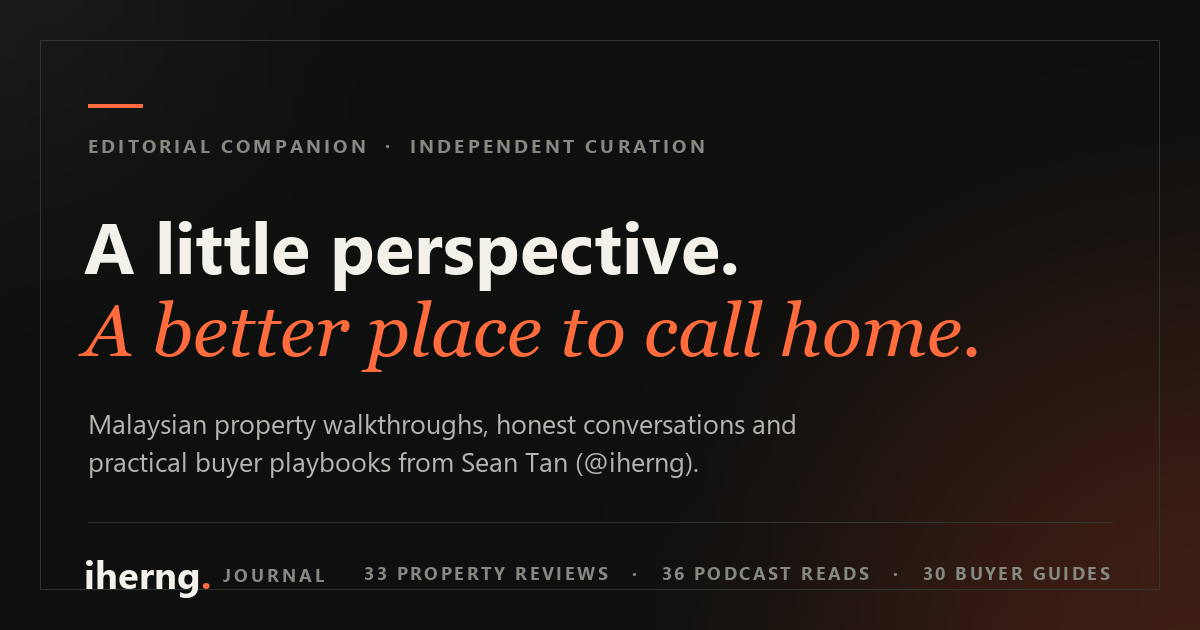
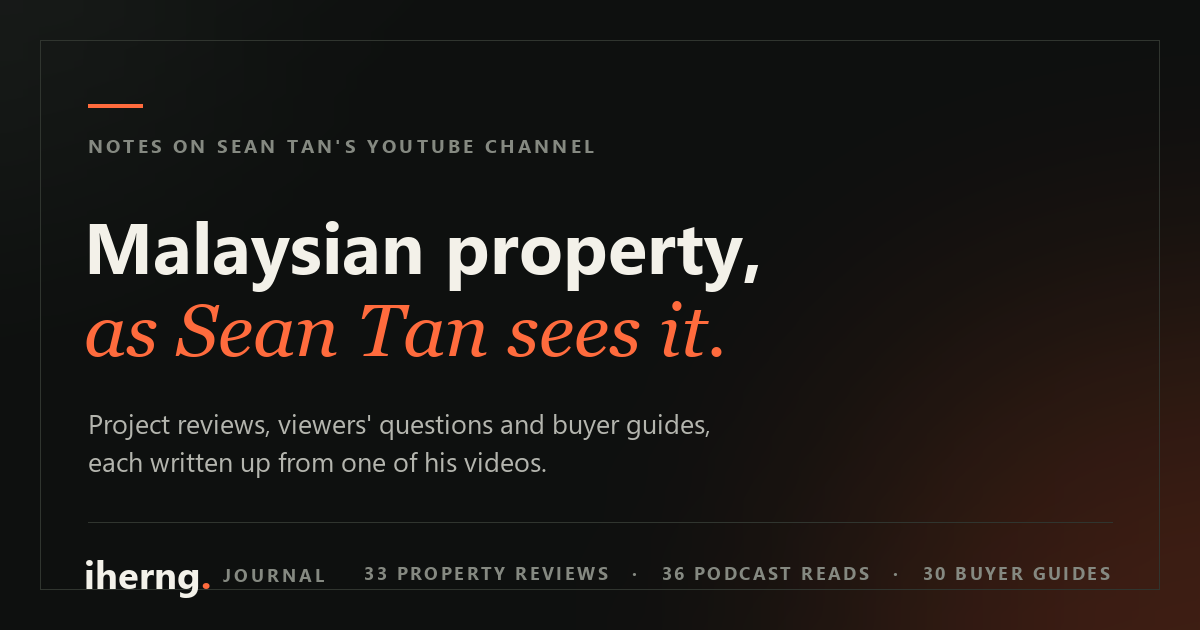
Rewrite the homepage's slogan and stock copy, and preview six per series
Keep the homepage's look, and replace the words that read as generated:
- Headline: "Malaysian property, as Sean Tan sees it." in place of "A little
  perspective. A better place to call home.", with a lead that says what
  Sean does and how each video is written up. The sparkle icon becomes a
  notebook.
- Series cards count reviews, episodes and guides rather than "stories", and
  say what each series holds.
- Podcast block: "Viewers ask. Sean answers." in place of "Good questions.
  Better perspectives.", with a plain description.
- Creator panel: a factual description in place of "most respected" and
  "unvarnished honesty", and the number of videos written up here in place
  of "100% Independent Editorial".
- Edition banner names the site and links to the newest write-up; the footer
  tagline drops "actionable insights".
- The social card carries the new headline.

The homepage now shows the newest six reviews and six guides, with links to
the full series, so it is about 5,400px tall instead of 15,100px.

diff --git a/app/page.tsx b/app/page.tsx
@@ -1,7 +1,7 @@
 import Link from 'next/link';
 import {
   ArrowRight,
-  Sparkles,
+  NotebookPen,
   Building2,
   Headphones,
   BookOpen,
@@ -12,10 +12,11 @@ import {
   PodcastSection,
   BuyerGuidesSection,
 } from '@/components/journal';
-import { seriesCount, type SeriesKey } from '@/lib/articles';
+import { articles, seriesCount, type SeriesKey } from '@/lib/articles';
 import { AIherngName } from '@/components/aiherng-name';
 
-const storyCount = (seriesKey: SeriesKey) => `${String(seriesCount(seriesKey)).padStart(2, '0')} STORIES`;
+const countLabel = (seriesKey: SeriesKey, noun: string) =>
+  `${String(seriesCount(seriesKey)).padStart(2, '0')} ${noun}`;
 
 export default function Home() {
   return (
@@ -39,16 +40,17 @@ export default function Home() {
 
           <div className="hero-copy">
             <div className="edition-badge">
-              <Sparkles size={13} className="text-accent" />
-              <span>EDITORIAL COMPANION · INDEPENDENT CURATION</span>
+              <NotebookPen size={13} className="text-accent" />
+              <span>Notes on Sean Tan&apos;s YouTube channel</span>
             </div>
             <h1 className="intro-title">
-              A little perspective.<br />
-              <span className="serif-accent">A better place to call home.</span>
+              Malaysian property,<br />
+              <span className="serif-accent">as Sean Tan sees it.</span>
             </h1>
             <p className="intro-lead">
-              Malaysian property walkthroughs, honest conversations, and practical buyer
-              playbooks from Sean Tan (@iherng), distilled into focused, source-linked articles.
+              Sean visits projects around Malaysia, answers viewers who write in about their
+              money and homes, and explains loans and costs. Each video is written up here as a
+              few minutes&apos; read, with his own figures and a link back to the episode.
             </p>
 
             <div className="hero-actions">
@@ -85,12 +87,12 @@ export default function Home() {
               <div className="icon-badge">
                 <Building2 size={16} />
               </div>
-              <span className="series-episodes">{storyCount('property-reviews')}</span>
+              <span className="series-episodes">{countLabel('property-reviews', 'REVIEWS')}</span>
             </div>
             <h3>Property Reviews</h3>
-            <p>Room-by-room architectural inspections &amp; neighbourhood trade-offs.</p>
+            <p>Sean walks through a project and says what he likes and what he would question.</p>
             <div className="quick-footer">
-              <span>View collection</span>
+              <span>See all reviews</span>
               <ArrowRight size={14} />
             </div>
           </Link>
@@ -100,12 +102,12 @@ export default function Home() {
               <div className="icon-badge">
                 <Headphones size={16} />
               </div>
-              <span className="series-episodes">{storyCount('iherng-podcast')}</span>
+              <span className="series-episodes">{countLabel('iherng-podcast', 'EPISODES')}</span>
             </div>
             <h3>iherng Podcast</h3>
-            <p>Asking Sean: Candid discussions on mortgages, family, and homeownership.</p>
+            <p>Viewers share their income, savings and dilemma. Sean tells them what he would do.</p>
             <div className="quick-footer">
-              <span>View collection</span>
+              <span>See all episodes</span>
               <ArrowRight size={14} />
             </div>
           </Link>
@@ -115,12 +117,12 @@ export default function Home() {
               <div className="icon-badge">
                 <BookOpen size={16} />
               </div>
-              <span className="series-episodes">{storyCount('buyer-guides')}</span>
+              <span className="series-episodes">{countLabel('buyer-guides', 'GUIDES')}</span>
             </div>
             <h3>Buyer Guides</h3>
-            <p>Practical playbooks for research, financing, risk checks, renovation and ownership decisions.</p>
+            <p>Sean&apos;s answers to what every buyer asks: loans, hidden costs, subsale or new launch.</p>
             <div className="quick-footer">
-              <span>View collection</span>
+              <span>See all guides</span>
               <ArrowRight size={14} />
             </div>
           </Link>
@@ -143,9 +145,10 @@ export default function Home() {
             <span className="eyebrow">MEET THE CREATOR</span>
             <h2>Sean Tan (@iherng)</h2>
             <p>
-              Sean Tan has become one of Malaysia&apos;s most respected real estate commentators,
-              known for touring properties without sales hype. He breaks down floor plans, construction
-              quality, and financial realities with unvarnished honesty.
+              Sean runs iherng, a YouTube channel about buying property in Malaysia. He tours new
+              launches and finished projects, points out what works and what doesn&apos;t, and on
+              Asking Sean works through viewers&apos; own numbers. The iherng Journal is an
+              independent site, not made by Sean: it writes up his videos and links back to each one.
             </p>
             <div className="creator-badges">
               <div className="stat-box">
@@ -157,8 +160,8 @@ export default function Home() {
                 <span>YouTube Subscribers</span>
               </div>
               <div className="stat-box">
-                <strong>100%</strong>
-                <span>Independent Editorial</span>
+                <strong>{articles.length}</strong>
+                <span>Videos written up here</span>
               </div>
             </div>
           </div>

diff --git a/components/journal.tsx b/components/journal.tsx
@@ -153,6 +153,9 @@ export function ArticleCard({
   );
 }
 
+// The homepage previews the newest few of each series; the series pages list them all.
+const HOME_PREVIEW = 6;
+
 export function PropertySection() {
   const propertyArticles = articles.filter(
     (a) => a.series === 'property-reviews'
@@ -170,17 +173,17 @@ export function PropertySection() {
             Property Reviews <span className="count-pill">{String(propertyArticles.length).padStart(2, '0')}</span>
           </h2>
           <p className="section-subtitle">
-            Walkthroughs of Malaysian homes with Sean. Step inside the spaces and look beyond the sales brochure.
+            The newest projects Sean has walked through, from show units to finished buildings.
           </p>
         </div>
         <Link className="editorial-btn" href="/property-reviews">
-          <span>Explore all reviews</span>
+          <span>All {propertyArticles.length} reviews</span>
           <ArrowRight size={16} />
         </Link>
       </div>
 
       <div className="article-grid">
-        {propertyArticles.map((a) => (
+        {propertyArticles.slice(0, HOME_PREVIEW).map((a) => (
           <ArticleCard key={a.slug} article={a} />
         ))}
       </div>
@@ -189,9 +192,8 @@ export function PropertySection() {
 }
 
 export function PodcastSection() {
-  // The homepage previews the latest three; the series page lists them all.
-  const podcastArticles = articles
-    .filter((a) => a.series === 'iherng-podcast')
+  const allEpisodes = articles.filter((a) => a.series === 'iherng-podcast');
+  const podcastArticles = [...allEpisodes]
     .sort((a, b) => b.date.localeCompare(a.date))
     .slice(0, 3);
 
@@ -203,14 +205,14 @@ export function PodcastSection() {
           <span>SERIES 02 / IN CONVERSATION</span>
         </div>
         <h2>
-          Good questions.<br />
-          <em>Better perspectives.</em>
+          Viewers ask.<br />
+          <em>Sean answers.</em>
         </h2>
         <p>
-          Deep dives from the Asking Sean podcast on lifestyle choices, property expectations, and navigating the Malaysian housing market.
+          People write in with their salary, savings and the property they have in mind. Sean tells them whether to buy, wait or sell, and why.
         </p>
         <Link href="/iherng-podcast" className="podcast-cta-btn">
-          <span>Browse all podcast reads</span>
+          <span>All {allEpisodes.length} episodes</span>
           <ArrowUpRight size={18} />
         </Link>
       </div>
@@ -265,6 +267,8 @@ export function PodcastSection() {
 
 export function BuyerGuidesSection() {
   const guideArticles = articles.filter((a) => a.series === 'buyer-guides');
+  // Guides are registered in guide order, so the newest are at the end.
+  const newestGuides = guideArticles.slice(-HOME_PREVIEW).reverse();
 
   return (
     <section className="article-section" id="buyer-guides-preview">
@@ -275,20 +279,20 @@ export function BuyerGuidesSection() {
             <span className="eyebrow">SERIES 03 / THE PLAYBOOK</span>
           </div>
           <h2 className="section-title">
-            Buyer Guides &amp; Playbooks <span className="count-pill">{String(guideArticles.length).padStart(2, '0')}</span>
+            Buyer Guides <span className="count-pill">{String(guideArticles.length).padStart(2, '0')}</span>
           </h2>
           <p className="section-subtitle">
-            Practical frameworks for research, financing, risk checks, renovation and ownership decisions.
+            Sean&apos;s answers to the questions most buyers run into, with the steps to take.
           </p>
         </div>
         <Link className="editorial-btn" href="/buyer-guides">
-          <span>Explore all guides</span>
+          <span>All {guideArticles.length} guides</span>
           <ArrowRight size={16} />
         </Link>
       </div>
 
       <div className="article-grid">
-        {guideArticles.map((a) => (
+        {newestGuides.map((a) => (
           <ArticleCard key={a.slug} article={a} />
         ))}
       </div>

diff --git a/app/layout.tsx b/app/layout.tsx
@@ -4,7 +4,7 @@ import { ArrowUpRight, Building2, Mic, BookOpen, Heart } from 'lucide-react';
 import './globals.css';
 import { JournalNav } from '@/components/journal-nav';
 import { AIherngName } from '@/components/aiherng-name';
-import { seriesCount } from '@/lib/articles';
+import { articles, seriesCount } from '@/lib/articles';
 import { ReadingProgress } from '@/components/reading-progress';
 import { JsonLd } from '@/components/json-ld';
 import { DEFAULT_OG_IMAGE, SITE_URL, websiteJsonLd } from '@/lib/seo';
@@ -63,6 +63,14 @@ export const metadata: Metadata = {
   },
 };
 
+// The banner points to the newest write-up, whichever series it is in.
+const latest = [...articles].sort((a, b) => b.date.localeCompare(a.date))[0];
+const LATEST_LABEL: Record<string, string> = {
+  'property-reviews': 'NEW REVIEW',
+  'iherng-podcast': 'NEW ON ASKING SEAN',
+  'buyer-guides': 'NEW GUIDE',
+};
+
 export default function RootLayout({
   children,
 }: Readonly<{
@@ -94,11 +102,11 @@ export default function RootLayout({
         <div className="top-edition-banner">
           <div className="container banner-inner">
             <span className="banner-left">
-              <strong>THE IHERNG JOURNAL</strong> · CURATED VIDEO ESSAYS &amp; NOTES
+              <strong>THE IHERNG JOURNAL</strong> · NOTES ON SEAN TAN&apos;S YOUTUBE CHANNEL
             </span>
-            <span className="banner-right">
-              FEATURING PROPERTY REVIEWS &amp; ASKING SEAN PODCAST
-            </span>
+            <Link className="banner-right" href={`/articles/${latest.slug}`}>
+              {LATEST_LABEL[latest.series]}: <strong>{latest.shortTitle}</strong> →
+            </Link>
           </div>
         </div>
 
@@ -142,8 +150,8 @@ export default function RootLayout({
                 <small className="wordmark-tag">JOURNAL</small>
               </Link>
               <p className="footer-tagline">
-                An independent editorial reading companion to Sean Tan&apos;s YouTube channel.
-                Translating in-depth video analyses into readable, actionable insights.
+                An independent site that writes up Sean Tan&apos;s YouTube videos, each with a
+                link back to the original episode.
               </p>
               <div className="footer-badges">
                 <span className="badge-pill">

diff --git a/app/globals.css b/app/globals.css
@@ -171,6 +171,17 @@ p {
   letter-spacing: 1px;
 }
 
+.banner-right strong {
+  color: var(--text-main);
+  font-weight: 600;
+  letter-spacing: 0.2px;
+}
+
+.banner-right:hover,
+.banner-right:hover strong {
+  color: var(--accent-terracotta);
+}
+
 @media (max-width: 768px) {
   .banner-right {
     display: none;

diff --git a/scripts/make_og_image.py b/scripts/make_og_image.py
@@ -75,29 +75,29 @@ def main() -> None:
     tracked(
         draw,
         (88, 132),
-        "EDITORIAL COMPANION  ·  INDEPENDENT CURATION",
+        "NOTES ON SEAN TAN'S YOUTUBE CHANNEL",
         font(SANS_BOLD, 19),
         TEXT_SUBTLE,
         3.2,
     )
 
-    draw.text((84, 196), "A little perspective.", font=font(SANS_BOLD, 72), fill=TEXT_MAIN)
+    draw.text((84, 196), "Malaysian property,", font=font(SANS_BOLD, 72), fill=TEXT_MAIN)
     draw.text(
         (84, 288),
-        "A better place to call home.",
+        "as Sean Tan sees it.",
         font=font(SERIF_ITALIC, 74),
         fill=TERRACOTTA,
     )
 
     draw.text(
         (88, 404),
-        "Malaysian property walkthroughs, honest conversations and",
+        "Project reviews, viewers' questions and buyer guides,",
         font=font(SANS, 27),
         fill=TEXT_MUTED,
     )
     draw.text(
         (88, 442),
-        "practical buyer playbooks from Sean Tan (@iherng).",
+        "each written up from one of his videos.",
         font=font(SANS, 27),
         fill=TEXT_MUTED,
     )
